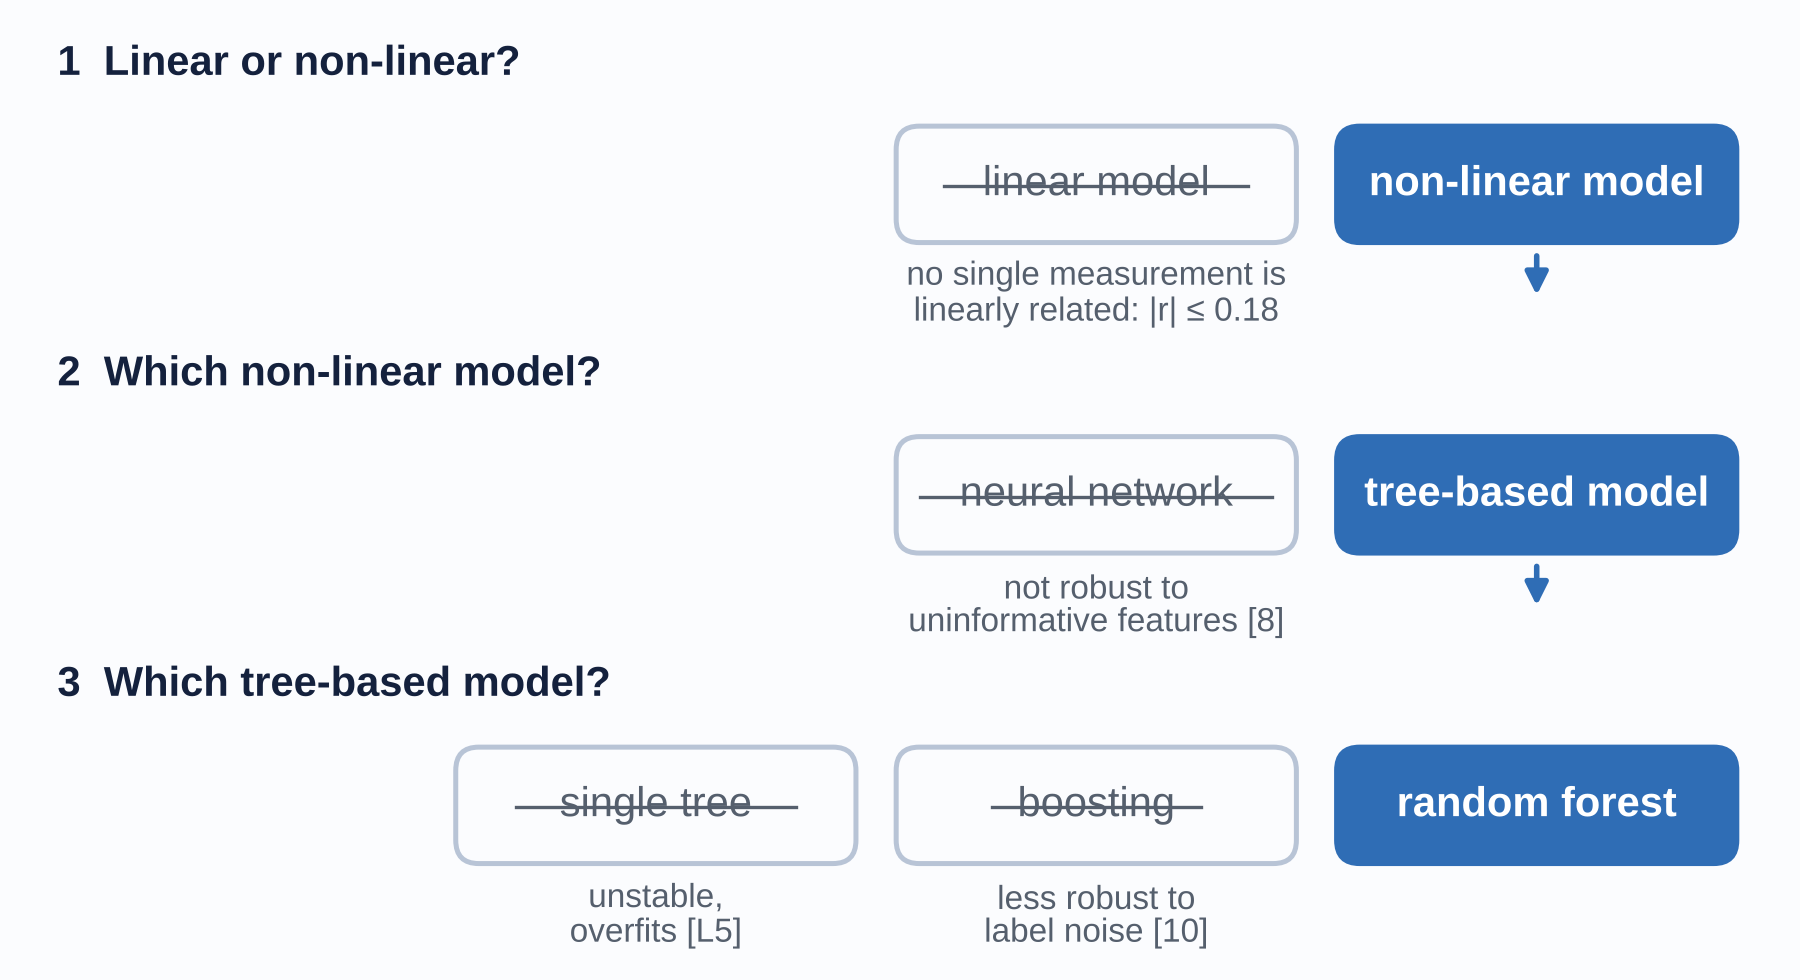
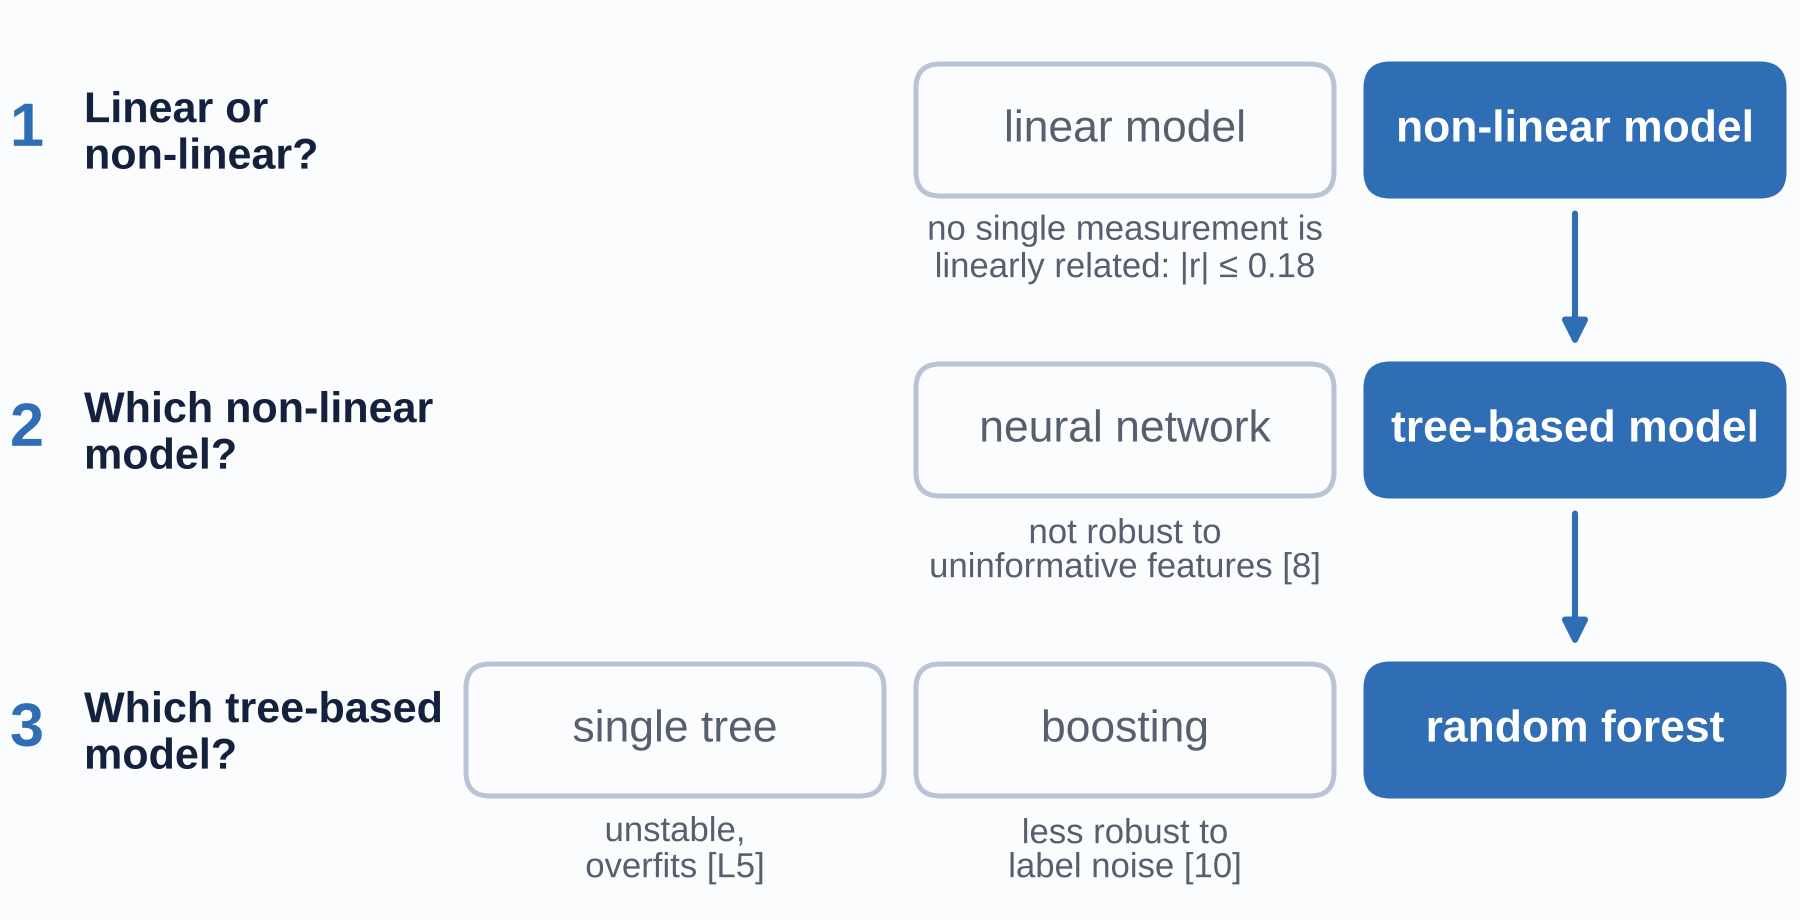
P3 slides: model choice diagram, full width and larger text

diff --git a/scripts/make_p3_slide_figures.py b/scripts/make_p3_slide_figures.py
@@ -199,27 +199,28 @@ def gini():
 def model_choice():
     """Diagram, no data: the three choices that lead from the data fact to the random forest."""
     from matplotlib.patches import FancyBboxPatch
-    fig, ax = plt.subplots(figsize=(9, 4.9))
-    ax.set_xlim(-0.25, 9.15); ax.set_ylim(-0.05, 5.0); ax.axis("off")
-    rows = [(4.05, "1  Linear or non-linear?", [("linear model", "no single measurement is\nlinearly related: |r| ≤ 0.18", 0), ("non-linear model", "", 1)]),
-            (2.45, "2  Which non-linear model?", [("neural network", "not robust to\nuninformative features [8]", 0), ("tree-based model", "", 1)]),
-            (0.85, "3  Which tree-based model?", [("single tree", "unstable,\noverfits [L5]", 0), ("boosting", "less robust to\nlabel noise [10]", 0), ("random forest", "", 1)])]
-    w, h, xr = 2.05, 0.56, 6.75
-    for y, q, opts in rows:
-        ax.text(0.05, y + 0.62, q, fontsize=15, color=NAVY, fontweight="bold", va="center")
-        xs = [xr - (len(opts) - 1 - i) * (w + 0.25) for i in range(len(opts))]
-        for x, (name, why, ok) in zip(xs, opts):
+    fig, ax = plt.subplots(figsize=(9, 4.6))
+    ax.set_xlim(0, 9); ax.set_ylim(0, 4.6); ax.axis("off")
+    rows = [(3.95, "1", "Linear or\nnon-linear?", [None, ("linear model", "no single measurement is\nlinearly related: |r| ≤ 0.18", 0), ("non-linear model", "", 1)]),
+            (2.45, "2", "Which non-linear\nmodel?", [None, ("neural network", "not robust to\nuninformative features [8]", 0), ("tree-based model", "", 1)]),
+            (0.95, "3", "Which tree-based\nmodel?", [("single tree", "unstable,\noverfits [L5]", 0), ("boosting", "less robust to\nlabel noise [10]", 0), ("random forest", "", 1)])]
+    w, h, xs = 2.05, 0.62, [2.35, 4.6, 6.85]
+    for y, n, q, opts in rows:
+        ax.text(0.05, y, n, fontsize=22, color=BLUE, fontweight="bold", va="center")
+        ax.text(0.42, y, q, fontsize=15.5, color=NAVY, fontweight="bold", va="center", linespacing=1.15)
+        for x, o in zip(xs, opts):
+            if o is None:
+                continue
+            name, why, ok = o
             ax.add_patch(FancyBboxPatch((x, y - h / 2), w, h, boxstyle="round,pad=0.02,rounding_size=0.12", lw=1.8,
                                         fc=BLUE if ok else BG, ec=BLUE if ok else LGREY))
-            ax.text(x + w / 2, y, name, ha="center", va="center", fontsize=15, color="white" if ok else GREY,
+            ax.text(x + w / 2, y, name, ha="center", va="center", fontsize=16, color="white" if ok else GREY,
                     fontweight="bold" if ok else "normal")
             if not ok:
-                d = 0.062 * len(name) + 0.05
-                ax.plot([x + w / 2 - d, x + w / 2 + d], [y - 0.01, y - 0.01], color=GREY, lw=1.2)
-                ax.text(x + w / 2, y - h / 2 - 0.10, why, ha="center", va="top", fontsize=12, color=GREY, linespacing=1.15)
+                ax.text(x + w / 2, y - h / 2 - 0.10, why, ha="center", va="top", fontsize=12.5, color=GREY, linespacing=1.15)
         if y > 1:
-            ax.annotate("", xy=(xr + w / 2, y - 1.6 + 1.0), xytext=(xr + w / 2, y - h / 2 - 0.06),
-                        arrowprops={"arrowstyle": "-|>", "color": BLUE, "lw": 2})
+            ax.annotate("", xy=(xs[2] + w / 2, y - 1.5 + h / 2 + 0.08), xytext=(xs[2] + w / 2, y - h / 2 - 0.08),
+                        arrowprops={"arrowstyle": "-|>", "color": BLUE, "lw": 2.2, "mutation_scale": 18})
     fig.subplots_adjust(0, 0, 1, 1)
     OUT.mkdir(parents=True, exist_ok=True)
     fig.savefig(OUT / "model_choice.png", dpi=200); plt.close(fig)
